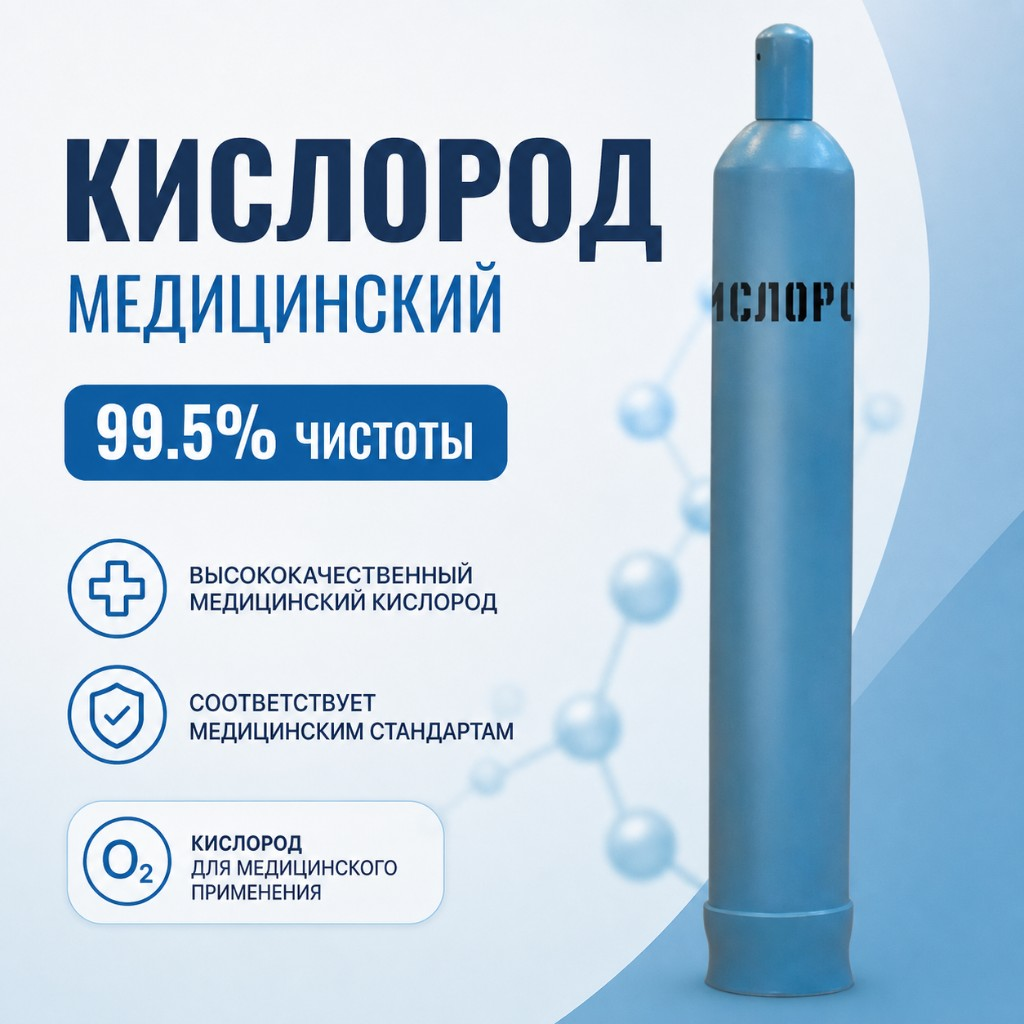
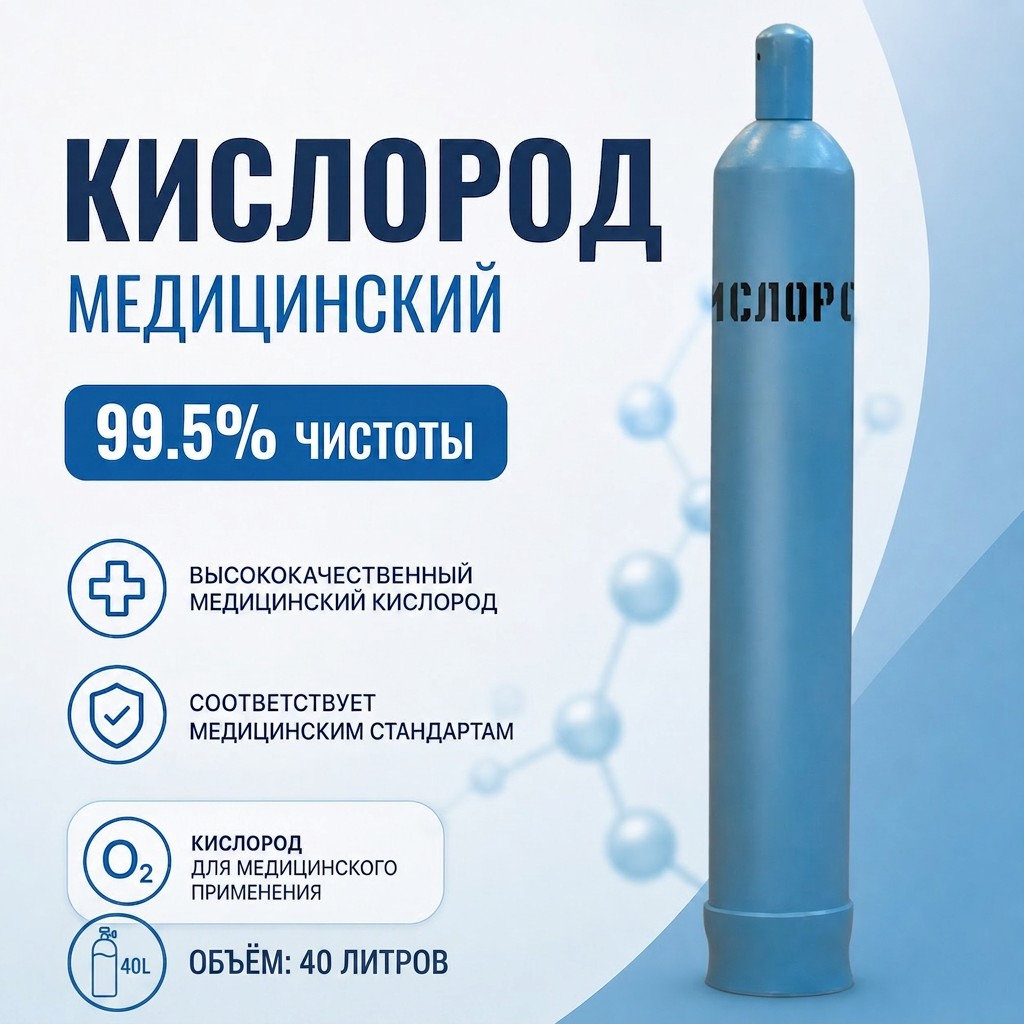
feat(ui): обновить промо 40л, добавить промо 80л

diff --git a/src/pages/Catalog.jsx b/src/pages/Catalog.jsx
@@ -84,7 +84,7 @@ const mockProducts = [
     originalPrice: 32000,
     rating: 4.5,
     reviews: 43,
-    image: assetUrl('industrial-oxygen.jpg'),
+    image: assetUrl('oxygen-80l-promo.png'),
     description: 'Большой промышленный баллон для крупных производств',
     features: ['99.2% чистоты', 'Максимальный объем', 'Промышленный класс', 'Экономичный'],
     inStock: false,
